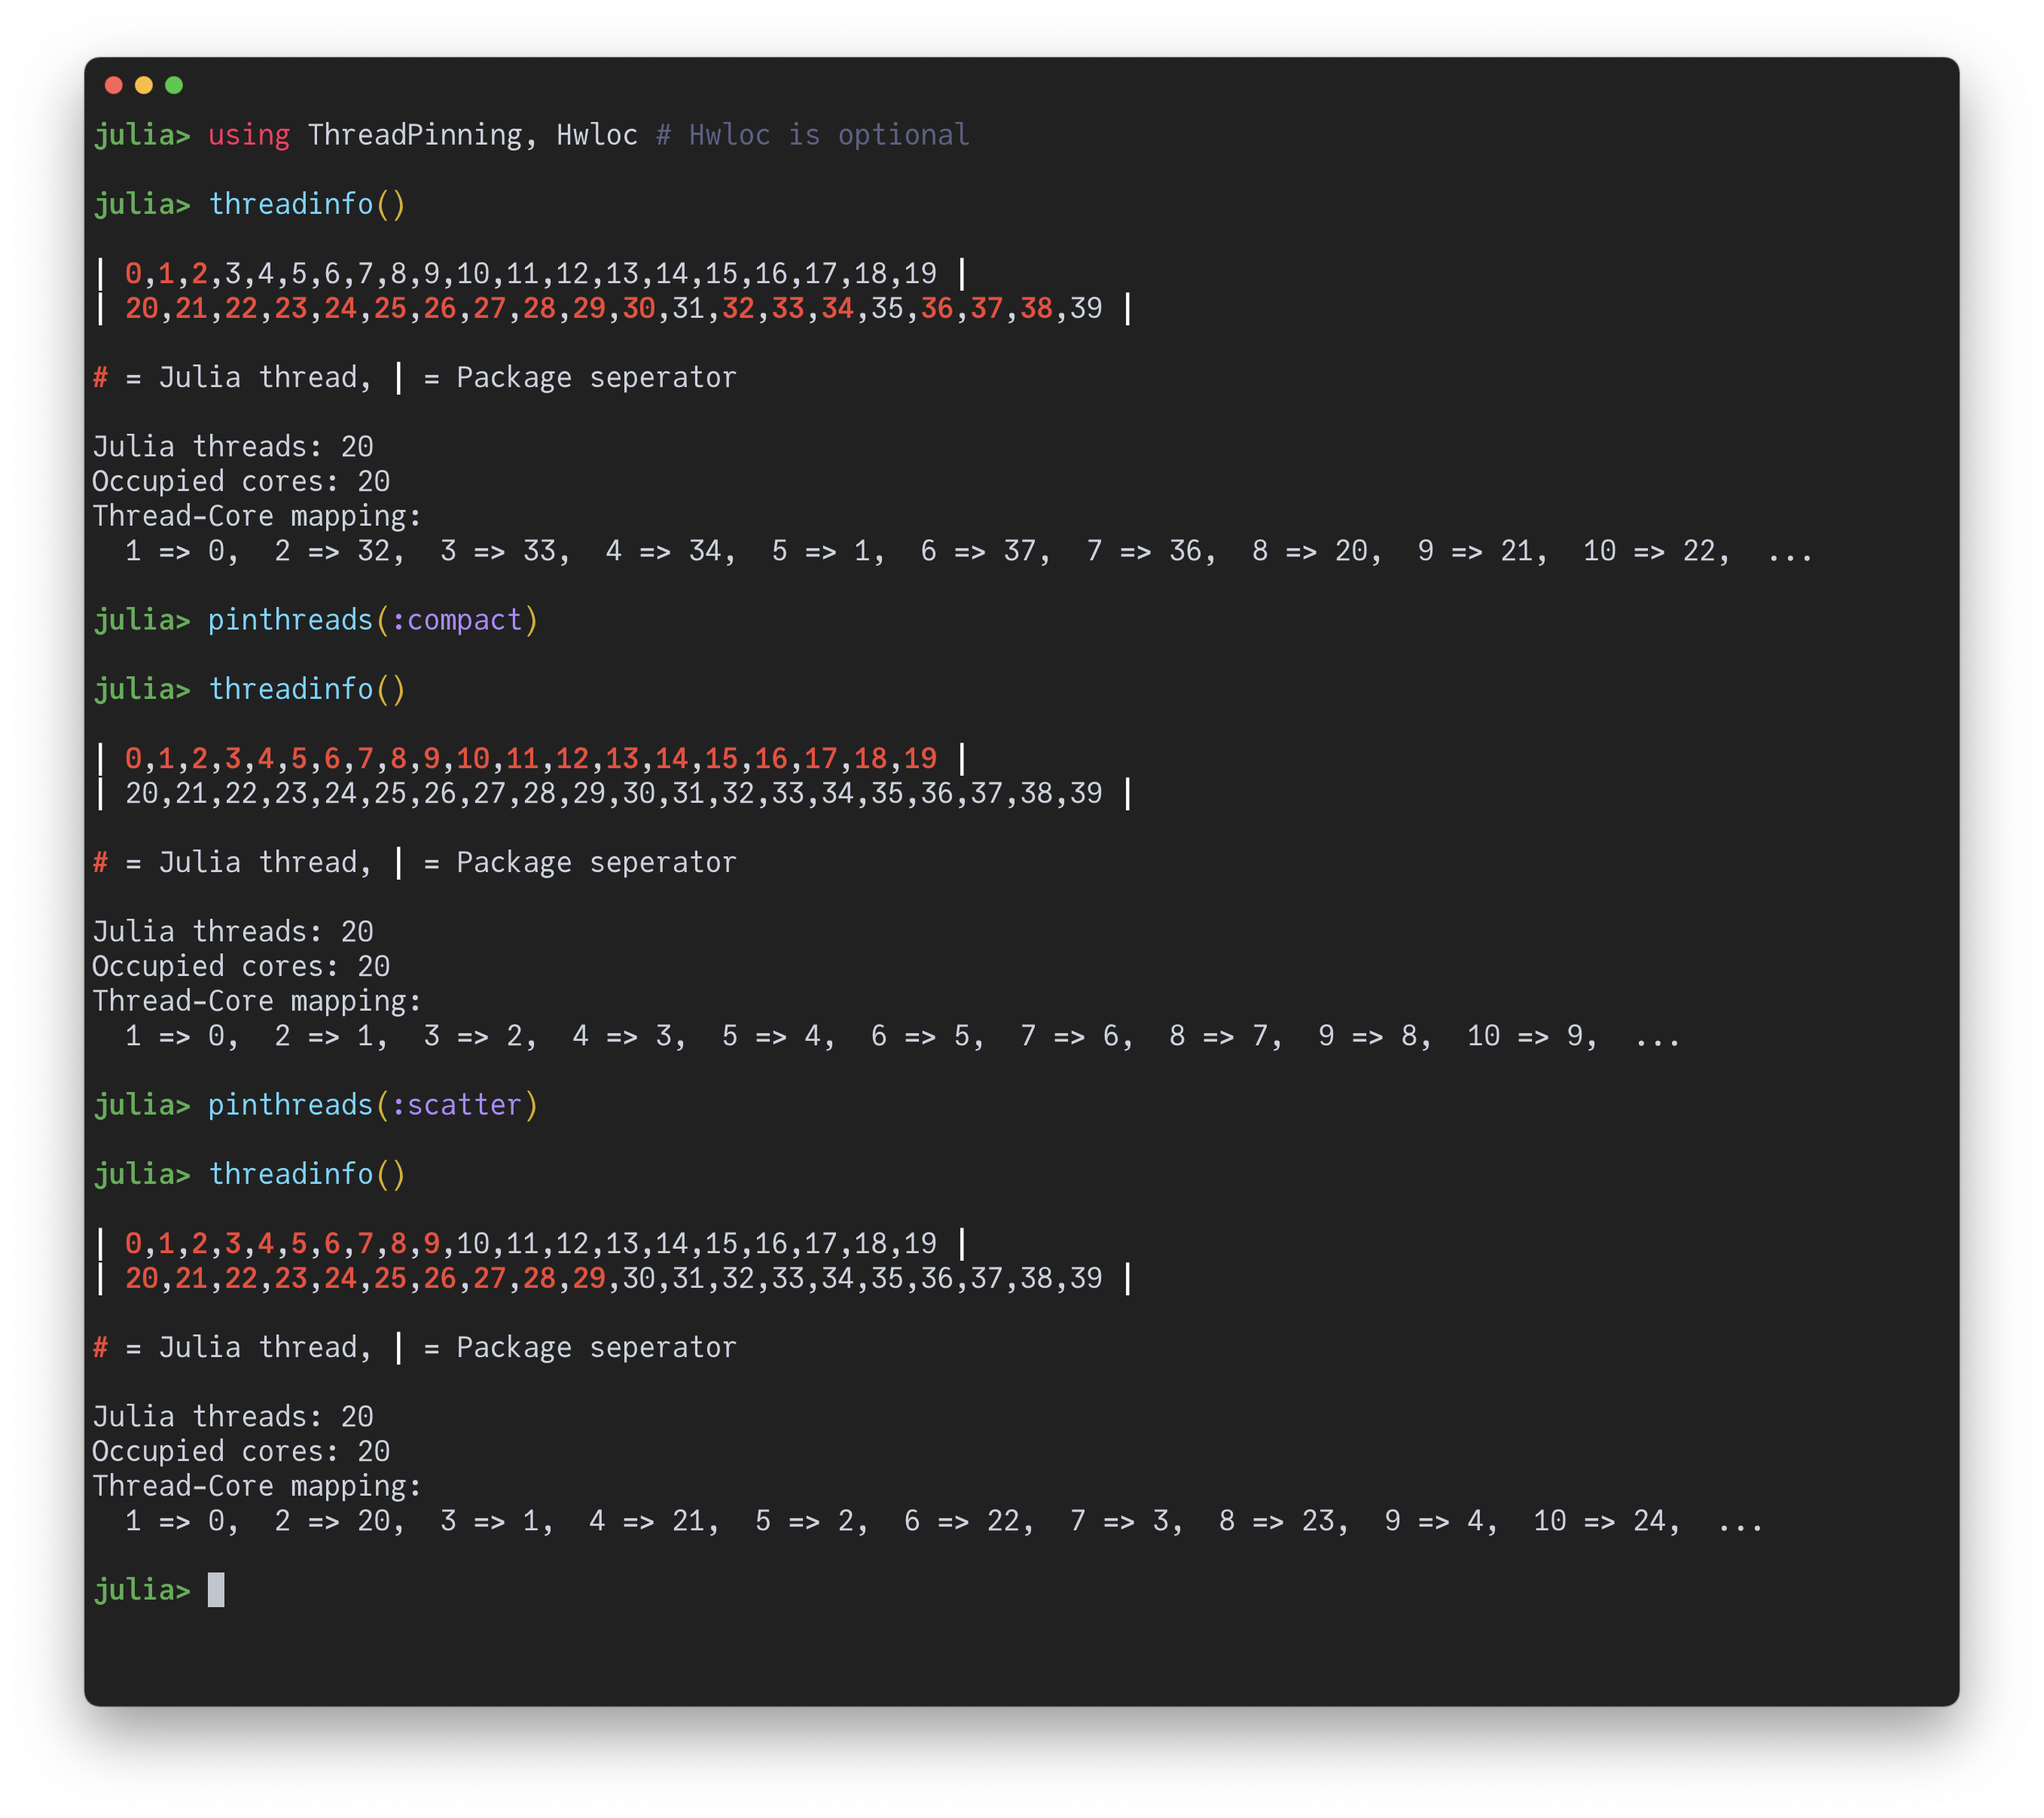
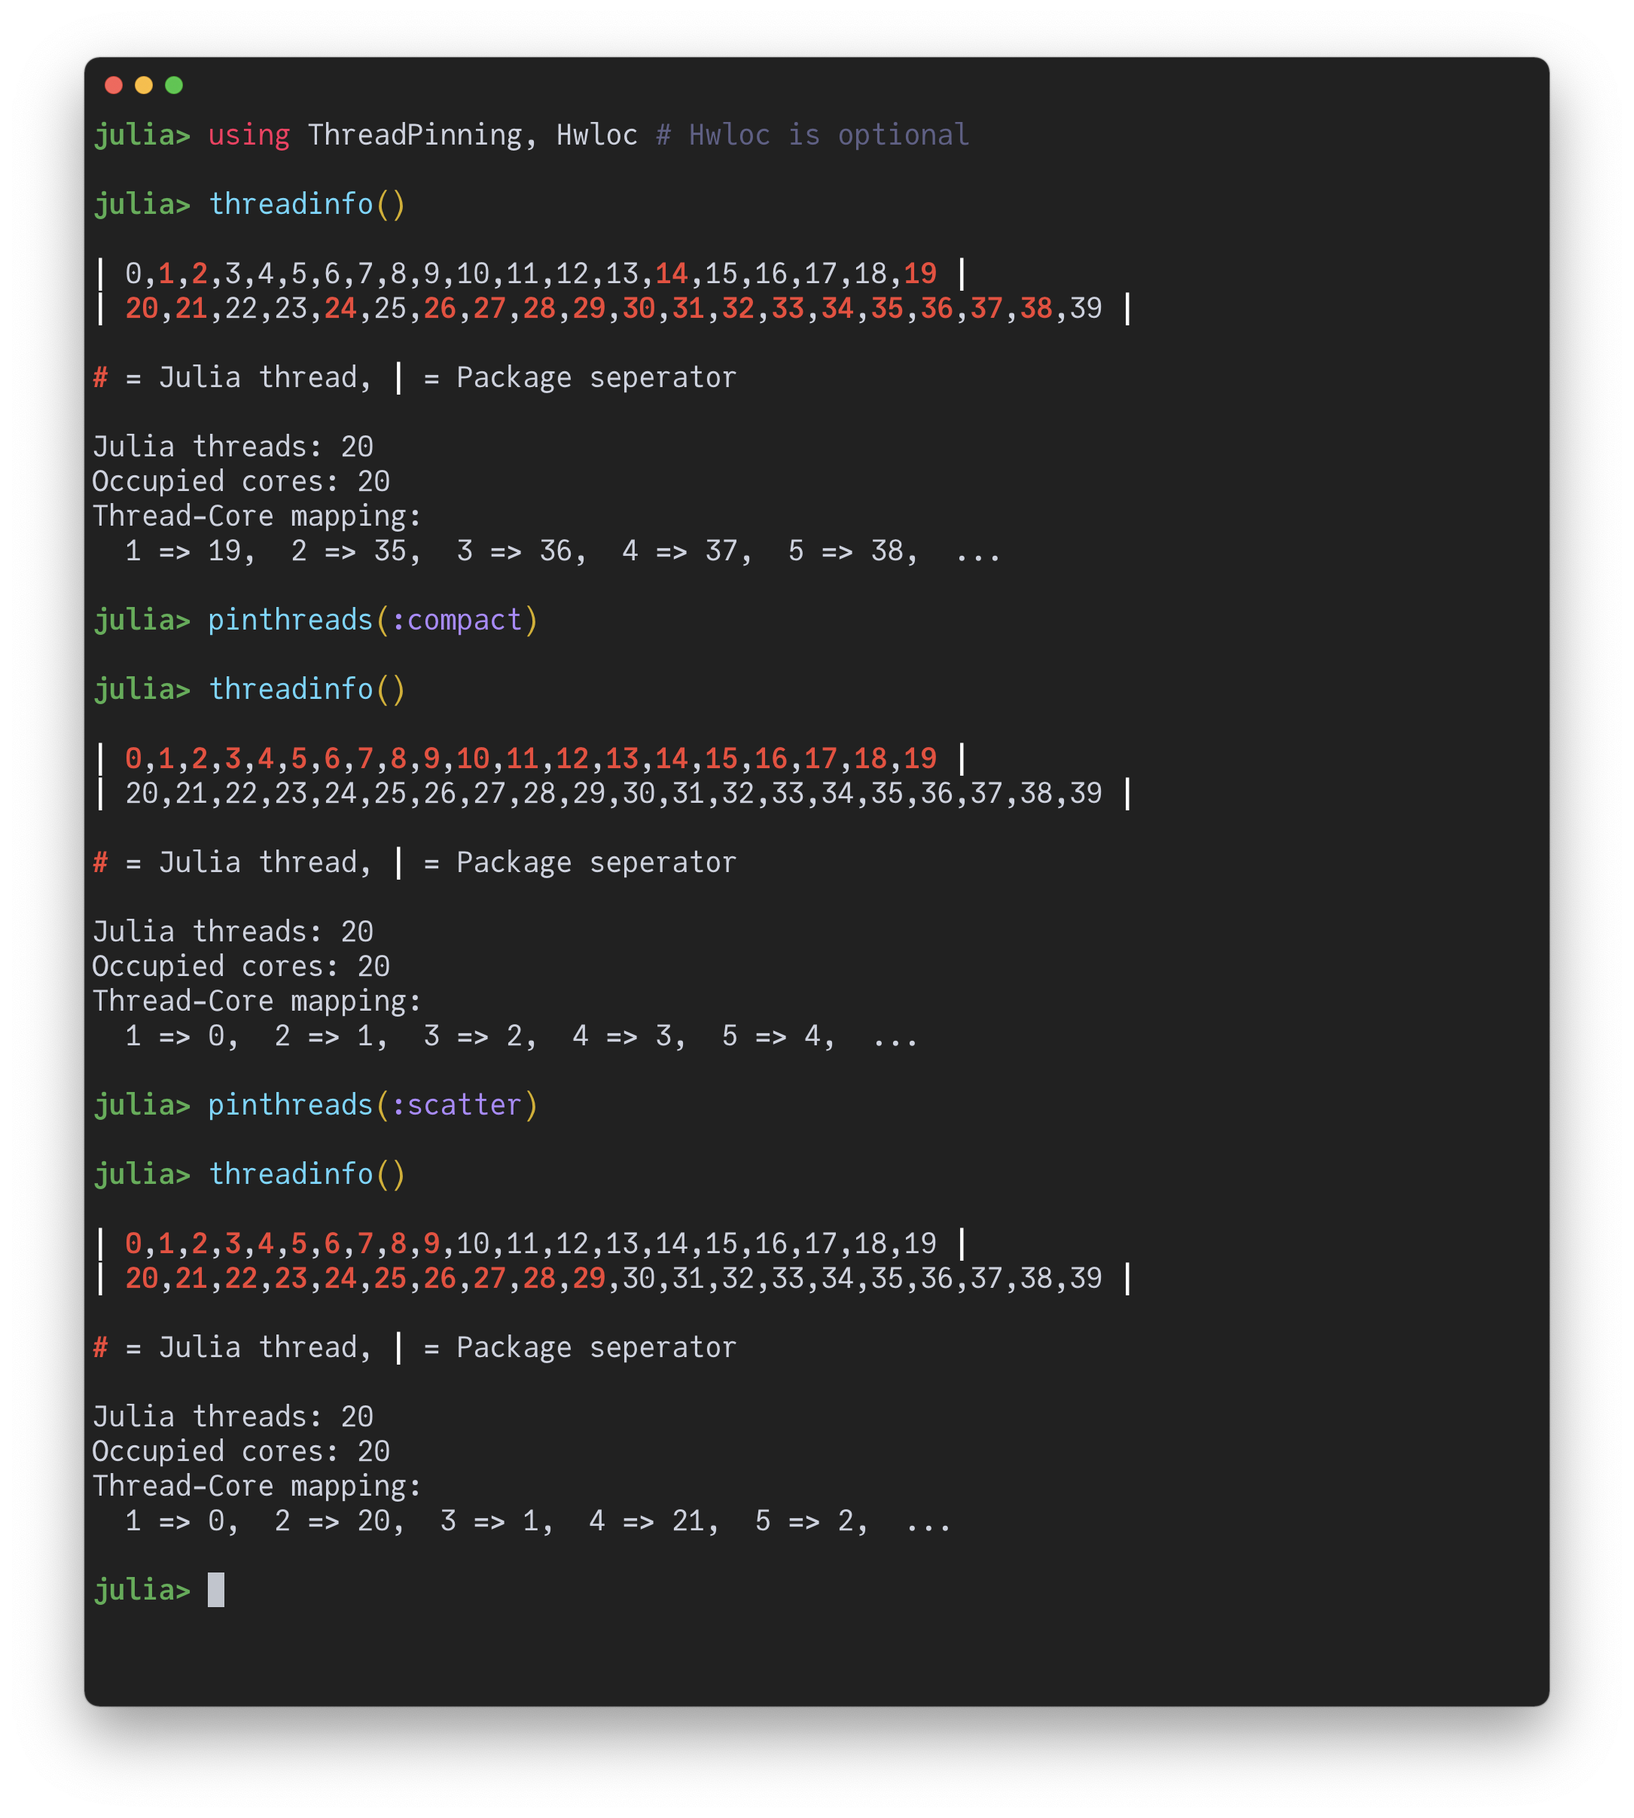
only show 5 thread-core mappings

diff --git a/README.md b/README.md
@@ -55,7 +55,7 @@ julia> threadinfo(color=false)
 Julia threads: 20
 Occupied cores: 20
 Thread-Core mapping:
-  1 => 0,  2 => 26,  3 => 28,  4 => 12,  5 => 20,  6 => 21,  7 => 22,  8 => 23,  9 => 24,  10 => 25,  ...
+  1 => 0,  2 => 26,  3 => 28,  4 => 12,  5 => 20,  ...
 
 julia> pinthreads(:compact)
 
@@ -69,7 +69,7 @@ julia> threadinfo(color=false)
 Julia threads: 20
 Occupied cores: 20
 Thread-Core mapping:
-  1 => 0,  2 => 1,  3 => 2,  4 => 3,  5 => 4,  6 => 5,  7 => 6,  8 => 7,  9 => 8,  10 => 9,  ...
+  1 => 0,  2 => 1,  3 => 2,  4 => 3,  5 => 4,  ...
 
 julia> pinthreads(:scatter)
 
@@ -83,7 +83,7 @@ julia> threadinfo(color=false)
 Julia threads: 20
 Occupied cores: 20
 Thread-Core mapping:
-  1 => 0,  2 => 20,  3 => 1,  4 => 21,  5 => 2,  6 => 22,  7 => 3,  8 => 23,  9 => 4,  10 => 24,  ...
+  1 => 0,  2 => 20,  3 => 1,  4 => 21,  5 => 2,  ...
 ```
 
 ## Documentation
